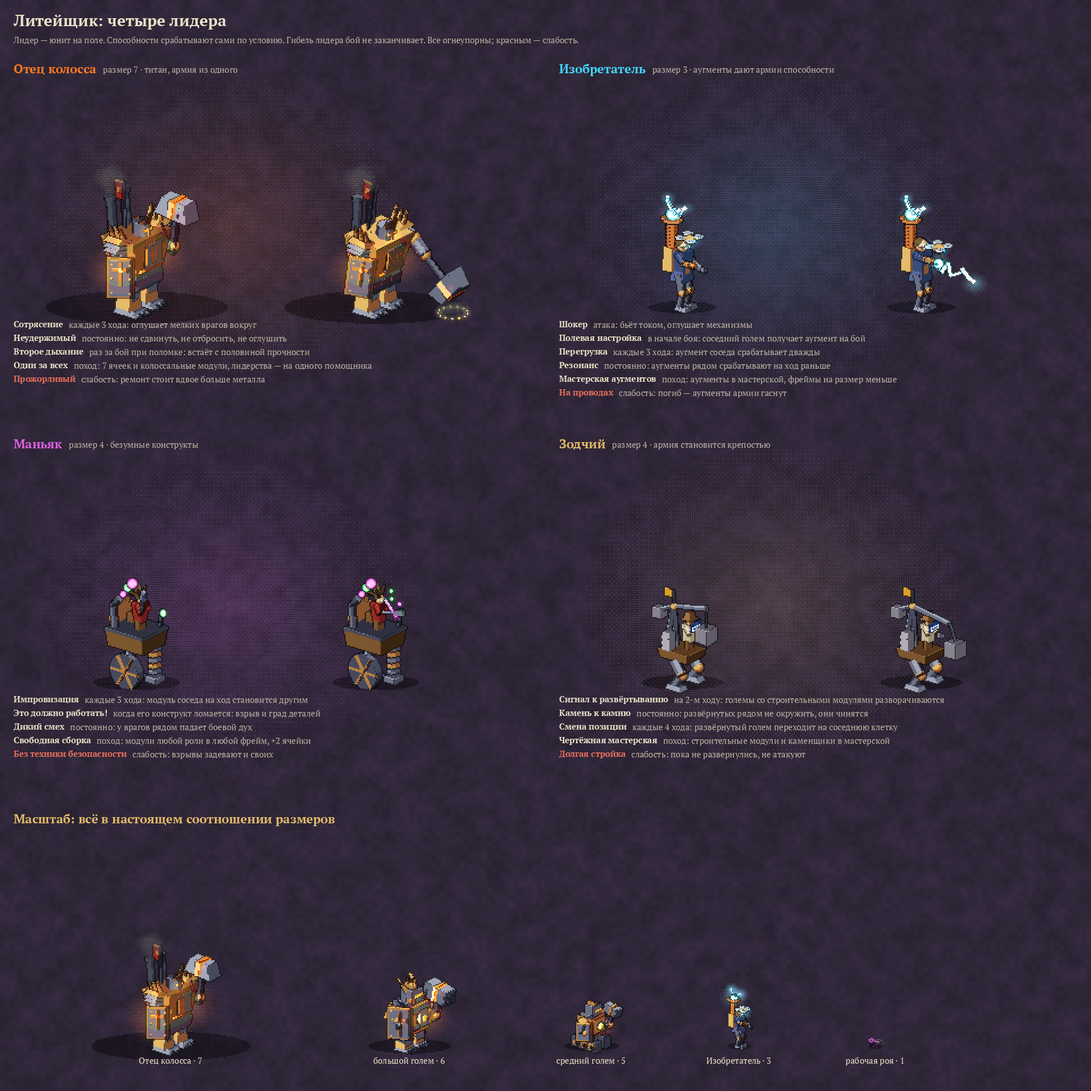
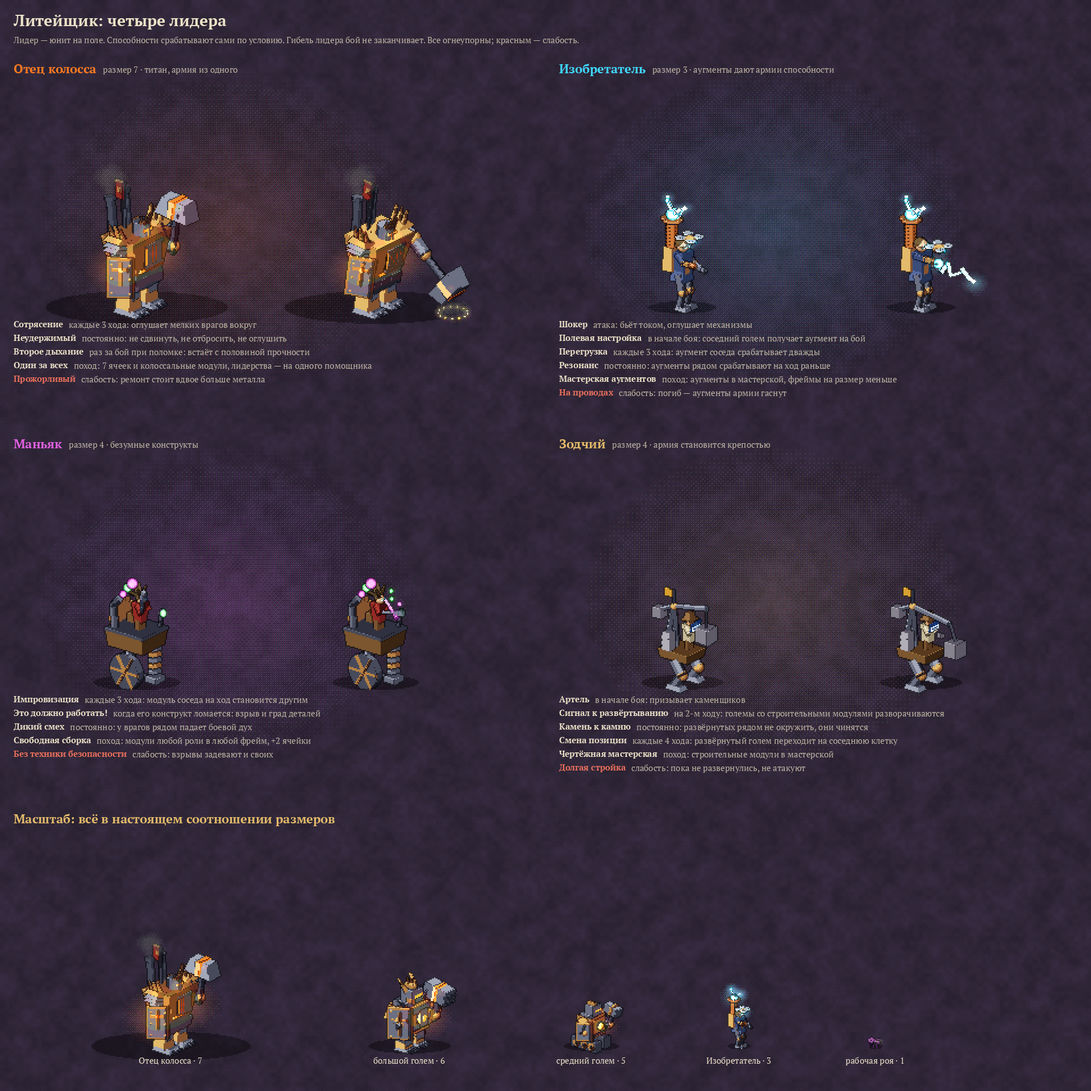
Каменщик — призыв Зодчего со своим набором; руки, ноги и ядро
- Общее правило призыва: не стоит лидерства, после боя исчезает
- Каменщик: пассивка, кладка, заделать пролом, слабость «без хозяина»;
  Зодчий призывает их способностью «Артель»
- Руки, ноги и голова задаются модулями, а не отдельным выбором
- Ядро выпадает в мастерской, в лагере переставляется

Claude-Session: https://claude.ai/code/session_01Bh6a99SKMjjKSinDnrtssC

Changed region(s): [[0.5, 0.625, 0.8438, 0.7188]]

diff --git a/tools/sprites/leaders_sheet.py b/tools/sprites/leaders_sheet.py
@@ -60,10 +60,11 @@ LEADERS = [
       ("Без техники безопасности", "слабость: взрывы задевают и своих", 1)]),
     ("Зодчий", "размер 4 · армия становится крепостью",
      lambda p: AR.render_model(AR.architect(p), 2.6, w=60, h=84, ox=28, oy=68), 36,
-     [("Сигнал к развёртыванию", "на 2-м ходу: големы со строительными модулями разворачиваются"),
+     [("Артель", "в начале боя: призывает каменщиков"),
+      ("Сигнал к развёртыванию", "на 2-м ходу: големы со строительными модулями разворачиваются"),
       ("Камень к камню", "постоянно: развёрнутых рядом не окружить, они чинятся"),
       ("Смена позиции", "каждые 4 хода: развёрнутый голем переходит на соседнюю клетку"),
-      ("Чертёжная мастерская", "поход: строительные модули и каменщики в мастерской"),
+      ("Чертёжная мастерская", "поход: строительные модули в мастерской"),
       ("Долгая стройка", "слабость: пока не развернулись, не атакуют", 1)]),
 ]
 
@@ -145,7 +146,7 @@ def architect_sheet():
     for i, t in enumerate(("I · брёвна и хлам", "II · камень и бронза", "III · железо, шипы, руны")):
         cx = (120 + i * 170) * S
         d.text((cx - d.textlength(t, font=fr) / 2, 432 * S), t, font=fr, fill=INK)
-    d.text((620 * S, 280 * S), "Каменщик", font=fh, fill=GOLD)
+    d.text((620 * S, 280 * S), "Каменщик — призыв Зодчего", font=fh, fill=GOLD)
     d.text((620 * S, 280 * S + 30), "каждые 2 хода выкладывает отрезок стены", font=fr, fill=MUT)
     img.save(out("architect.png"))
 

diff --git a/docs/CONCEPT.md b/docs/CONCEPT.md
@@ -85,6 +85,9 @@
 - **Число и вид способностей ничем не ограничены** — только балансом и смыслом существа.
   Скорпион жалит, жук таранит, мокрица держит удар, Зодчий разворачивает стены. Так у каждого
   появляется своё лицо.
+- **Призыв**: юнит, которого создаёт способность (каменщики Зодчего, личинки роя). Лидерства не
+  стоит, после боя исчезает и в следующем бою призывается заново. Способности, пассивка
+  и слабость у него такие же, как у всех.
 - **Пассивки**: у каждого юнита и лидера есть хотя бы одна постоянная способность. Она работает
   в любом бою и сразу говорит, кто это. Часть пассивок общая для класса (у Литейщика —
   огнеупорность).
@@ -167,7 +170,8 @@
   модуль получает новую грань способности, а не только большие цифры.
 - **Пул**: у каждого фрейма 6 модулей своей роли, плюс ядро и редкие модули. В мастерской
   выпадают только модули для фреймов, которые есть в армии.
-- **Руки и ноги** меняются, но из того, что подходит фрейму.
+- **Руки, ноги и голова** — не отдельный выбор: их вид задают модули (Гусеницы и Паучьи лапы —
+  ноги, Кистень — рука), голова показывает уровень голема. Спрайт собирается сам.
 - Ролей пять, а големов от 2 до 5–7: закрыть всё нельзя, выбор ролей — главное решение похода.
   Можно взять два одинаковых фрейма с разными сборками.
 
@@ -253,6 +257,9 @@
 | Литое | без стихии, но голем прочнее |
 | Огненное | поджигают цель |
 | Грозовое | бьют цепной молнией и оглушают механизмы |
+
+Новое ядро выпадает в мастерской как обычное предложение и заменяет старое; в лагере ядра можно
+переставлять между големами.
 
 - **Уровни I–III видны на спрайте**: молот обрастает шипами и руной, щит становится башенным,
   на гусеницах появляются юбки и таран, на голове — рога и корона шипов, ядро — в решётке
@@ -417,17 +424,27 @@
 | Подъёмная стрела | Механик | подъёмный кран | раз в 3 хода переставляет соседнего голема |
 | Полевая кузня | Механик | ремонтная кузница | раз в 2 хода чинит голема рядом |
 
-**Каменщик** — малый голем Зодчего: каждые 2 хода выкладывает отрезок стены перед собой.
 Уровни построек видны на спрайте: I — брёвна и хлам, II — камень и бронза, III — железо, шипы,
 руны.
 
+**Каменщик** — призыв Зодчего: малый голем размера 2 (двое в клетке). Как все големы,
+огнеупорен и проводник.
+
 | Способность | Когда | Что делает |
 |---|---|---|
+| Свой на стройке | постоянно | проходит сквозь свои стены и развёрнутых големов |
+| Кладка | каждые 2 хода | кладёт отрезок стены I уровня на соседнюю клетку со стороны врага |
+| Заделать пролом | когда рядом разрушена своя стена | за ход восстанавливает её |
+| Без хозяина | слабость | если Зодчий погиб, каменщики бросают работу и только стоят |
+
+| Способность | Когда | Что делает |
+|---|---|---|
+| Артель | в начале боя | призывает каменщиков: 2, и ещё по одному за каждого побеждённого босса (до 5) |
 | Сигнал к развёртыванию | на 2-м ходу | големы со строительными модулями разворачиваются разом |
 | Камень к камню | постоянно | развёрнутых големов рядом не окружить, они понемногу чинятся |
 | Долгая стройка | слабость | пока не развернулись, строительные големы не атакуют |
 | Смена позиции | каждые 4 хода | развёрнутый голем сворачивается, шагает и разворачивается снова |
-| Чертёжная мастерская | правило похода | строительные модули и каменщики в мастерской |
+| Чертёжная мастерская | правило похода | строительные модули в мастерской |
 
 Развитие: развёртывание на ход раньше, +1 способность развёрнутым, или **Цитадель** — большой
 голем, который разворачивается в крепость, где могут стоять другие големы.
